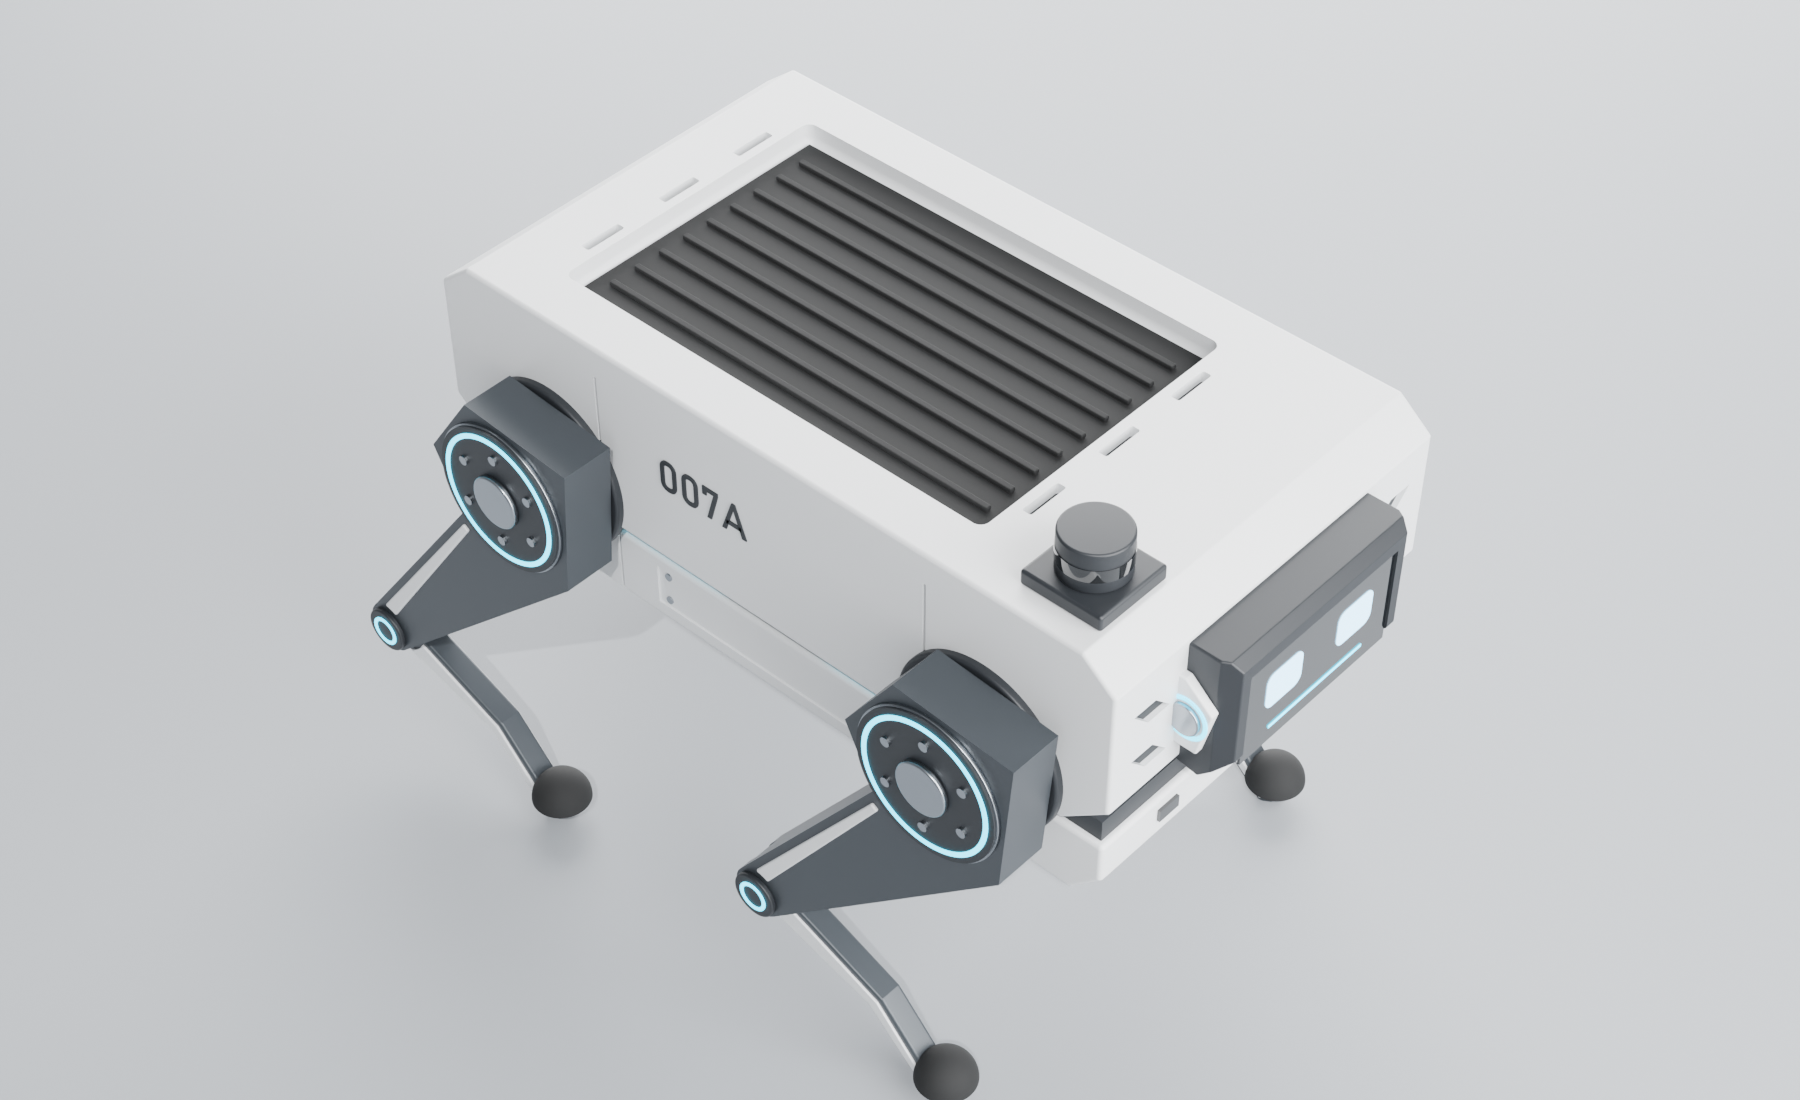
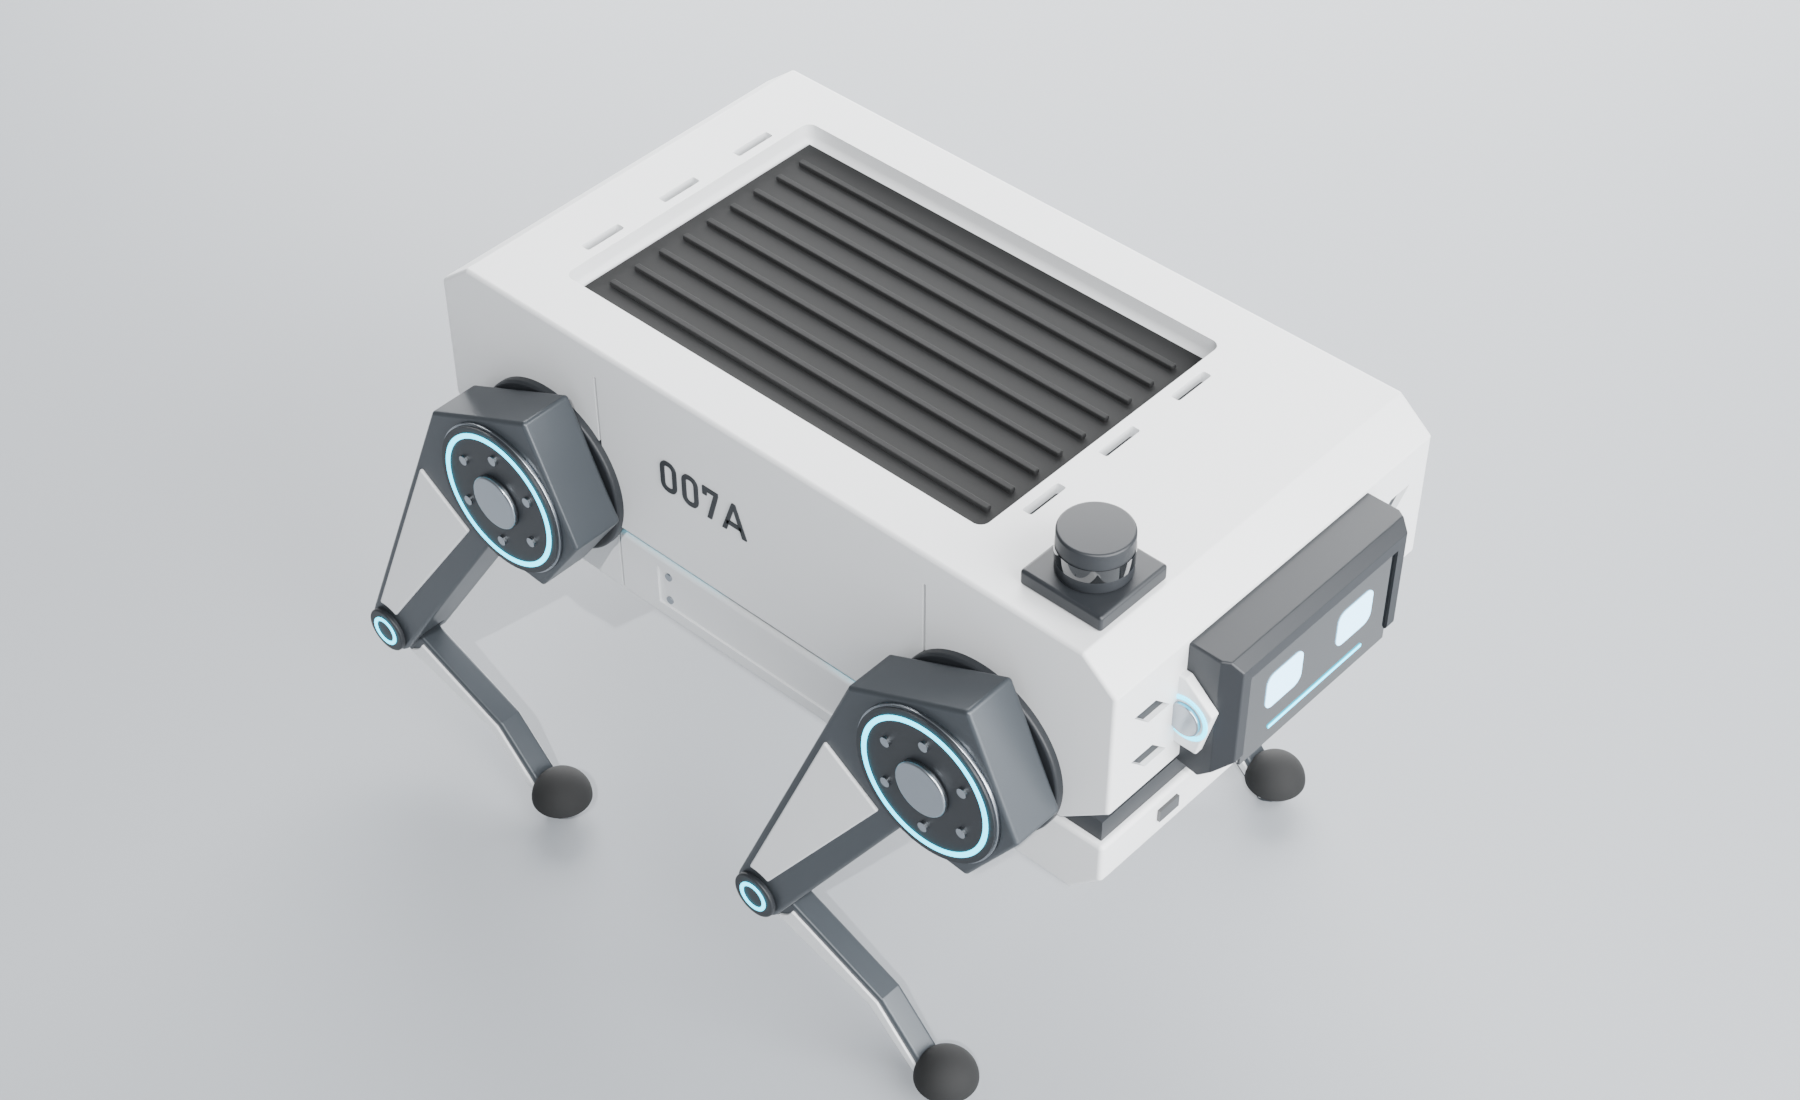
007A 外观 v6：髋盘和大腿沿中线翻过来（和 v3 一致：连续长直边在后面、髋盘尖角朝前上）

Changed region(s): [[0.4044, 0.5873, 0.5911, 0.8345], [0.1867, 0.34, 0.3422, 0.5873]]

diff --git a/007a/model.py b/007a/model.py
@@ -127,7 +127,7 @@ def leg_2d(foot=(0.0, -HIP_Z)):
     kx, kz = knee
     th = math.atan2(kz, kx)                                        # 髋 → 膝 的方向
     cu, su = math.cos(th), math.sin(th)
-    W = lambda u, v: (u * cu - v * su, u * su + v * cu)            # 大腿坐标 → 腿平面
+    W = lambda u, v: (u * cu + v * su, u * su - v * cu)            # 大腿坐标 → 腿平面（v 取反：v3 里大腿连续的长直边在后面、髋盘尖角朝前上）
 
     def line(ang):
         """方向角 ang（度）的边，离中心 HEX_A；返回 (点, 方向)。外法线 = 方向转 +90°（多边形按顺时针走：A→B→膝→C→D→E）。"""
